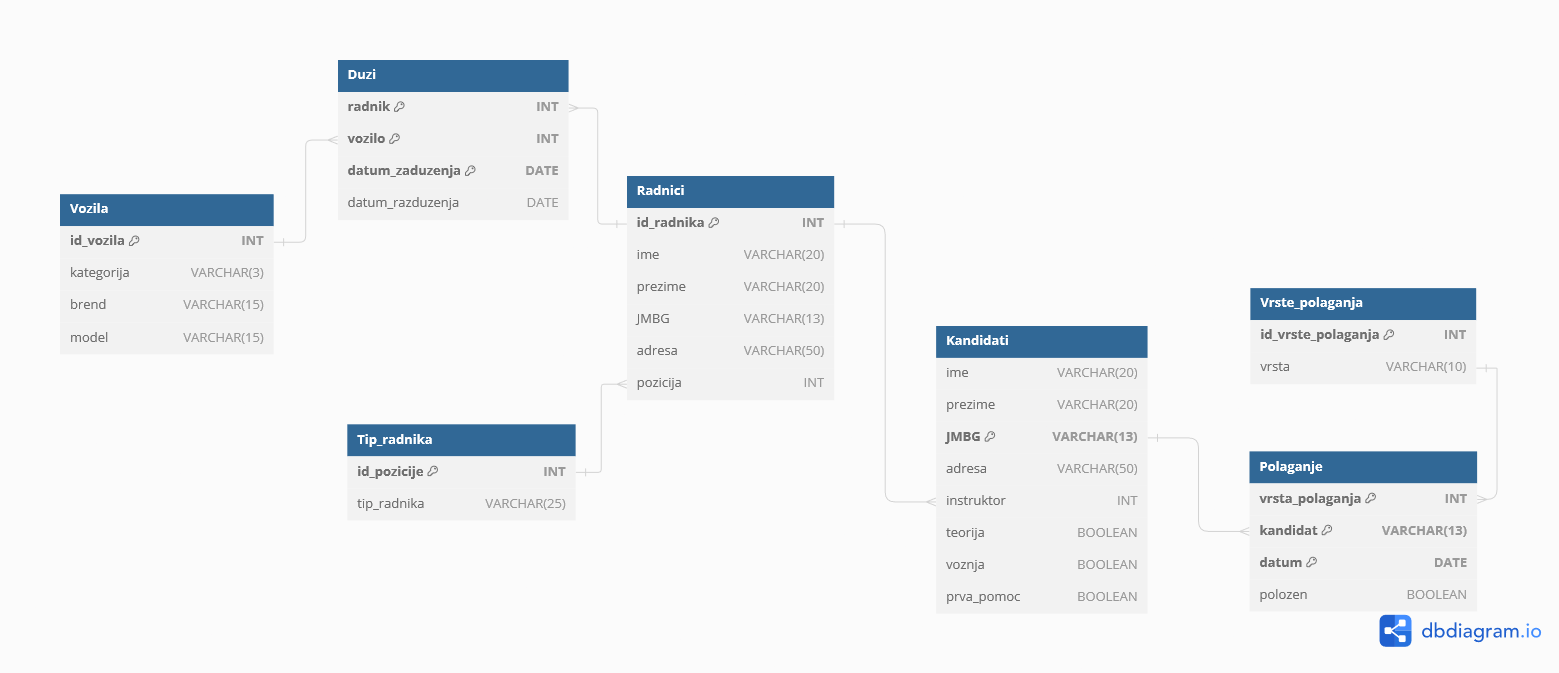
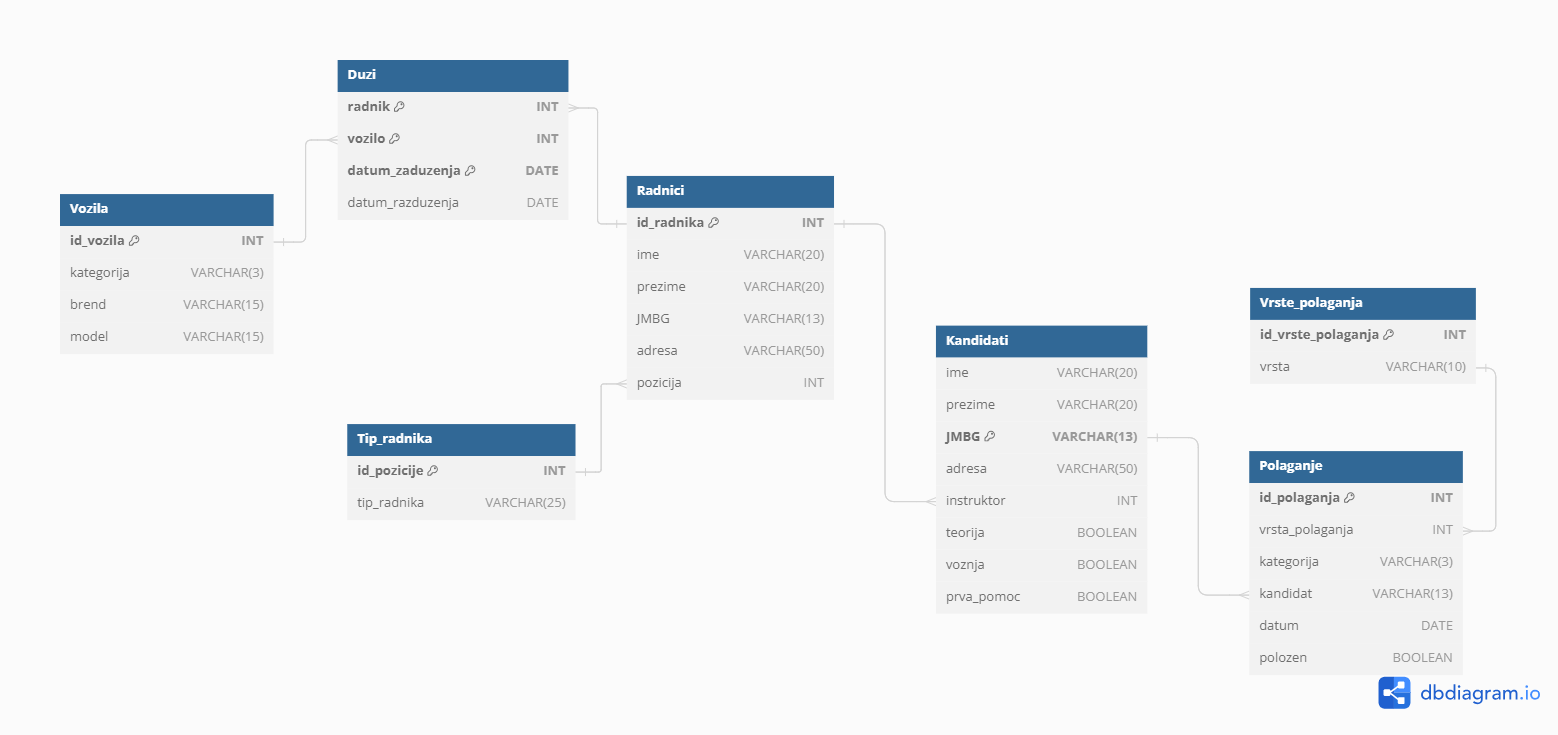
Update README i dijagram

diff --git a/README.md b/README.md
@@ -3,47 +3,49 @@ Projekat iz baza podataka koji podržava deo rada auto škole
 
 Tabele u projektu:
 ### KANDIDATI
--ime (varchar(20))  
--prezime (varchar(20))  
--JMBG (primary key)  
--adresa (varchar(50))  
--instruktor (foreign key)  
--teorija (bool)  
--voznja (bool)  
--prva_pomoc (bool)  
+- ime (varchar(20))  
+- prezime (varchar(20))  
+- JMBG (primary key)  
+- adresa (varchar(50))  
+- instruktor (foreign key)  
+- teorija (bool)  
+- voznja (bool)  
+- prva_pomoc (bool)  
 
 ### VOZILA
--id_vozila (primary key)  
--kategorija (varchar(3))  
--brend (varchar(15))  
--model (varchar(15))  
+- id_vozila (primary key)  
+- kategorija (varchar(3))  
+- brend (varchar(15))  
+- model (varchar(15))  
 
 ### RADNICI
--ime (varchar(20))  
--prezime (varchar(20))  
--JMBG (varchar(13))  
--adresa (varchar(50))  
--pozicija (foreign key)  
--vozilo (foreign key)  
+- ime (varchar(20))  
+- prezime (varchar(20))  
+- JMBG (varchar(13))  
+- adresa (varchar(50))  
+- pozicija (foreign key)  
+- vozilo (foreign key)  
 
 ### TIP_RADNIKA
--id_pozicije (primary key)  
--tip_radnika (varchar(25))  
+- id_pozicije (primary key)  
+- tip_radnika (varchar(25))  
 
 ### DUZI
--radnik (foreign key)  
--vozilo (foreign key)  
--datum_zaduzenja (date)  
+- radnik (foreign key)  
+- vozilo (foreign key)  
+- datum_zaduzenja (date)  
 
 ### VRSTE_POLAGANJA
--id (primary key)  
--vrsta(varchar(10))  
+- id (primary key)  
+- vrsta(varchar(10))  
 
 ### POLAGANJE
--vrsta_polaganja (foreign key)  
--kandidat (foreign key)  
--datum (date)  
--polozen (bool)
+- id_polaganja (primary key)
+- vrsta_polaganja (foreign key) 
+- kategorija (varchar(3))
+- kandidat (foreign key)  
+- datum (date)  
+- polozen (bool)
 
 ## RELATIONSHIP DIAGRAM
 ![relationship-diagram](https://github.com/UR0S1/Baze-podataka-projekat/blob/main/SQL_baza_dijagram.png?raw=true)
